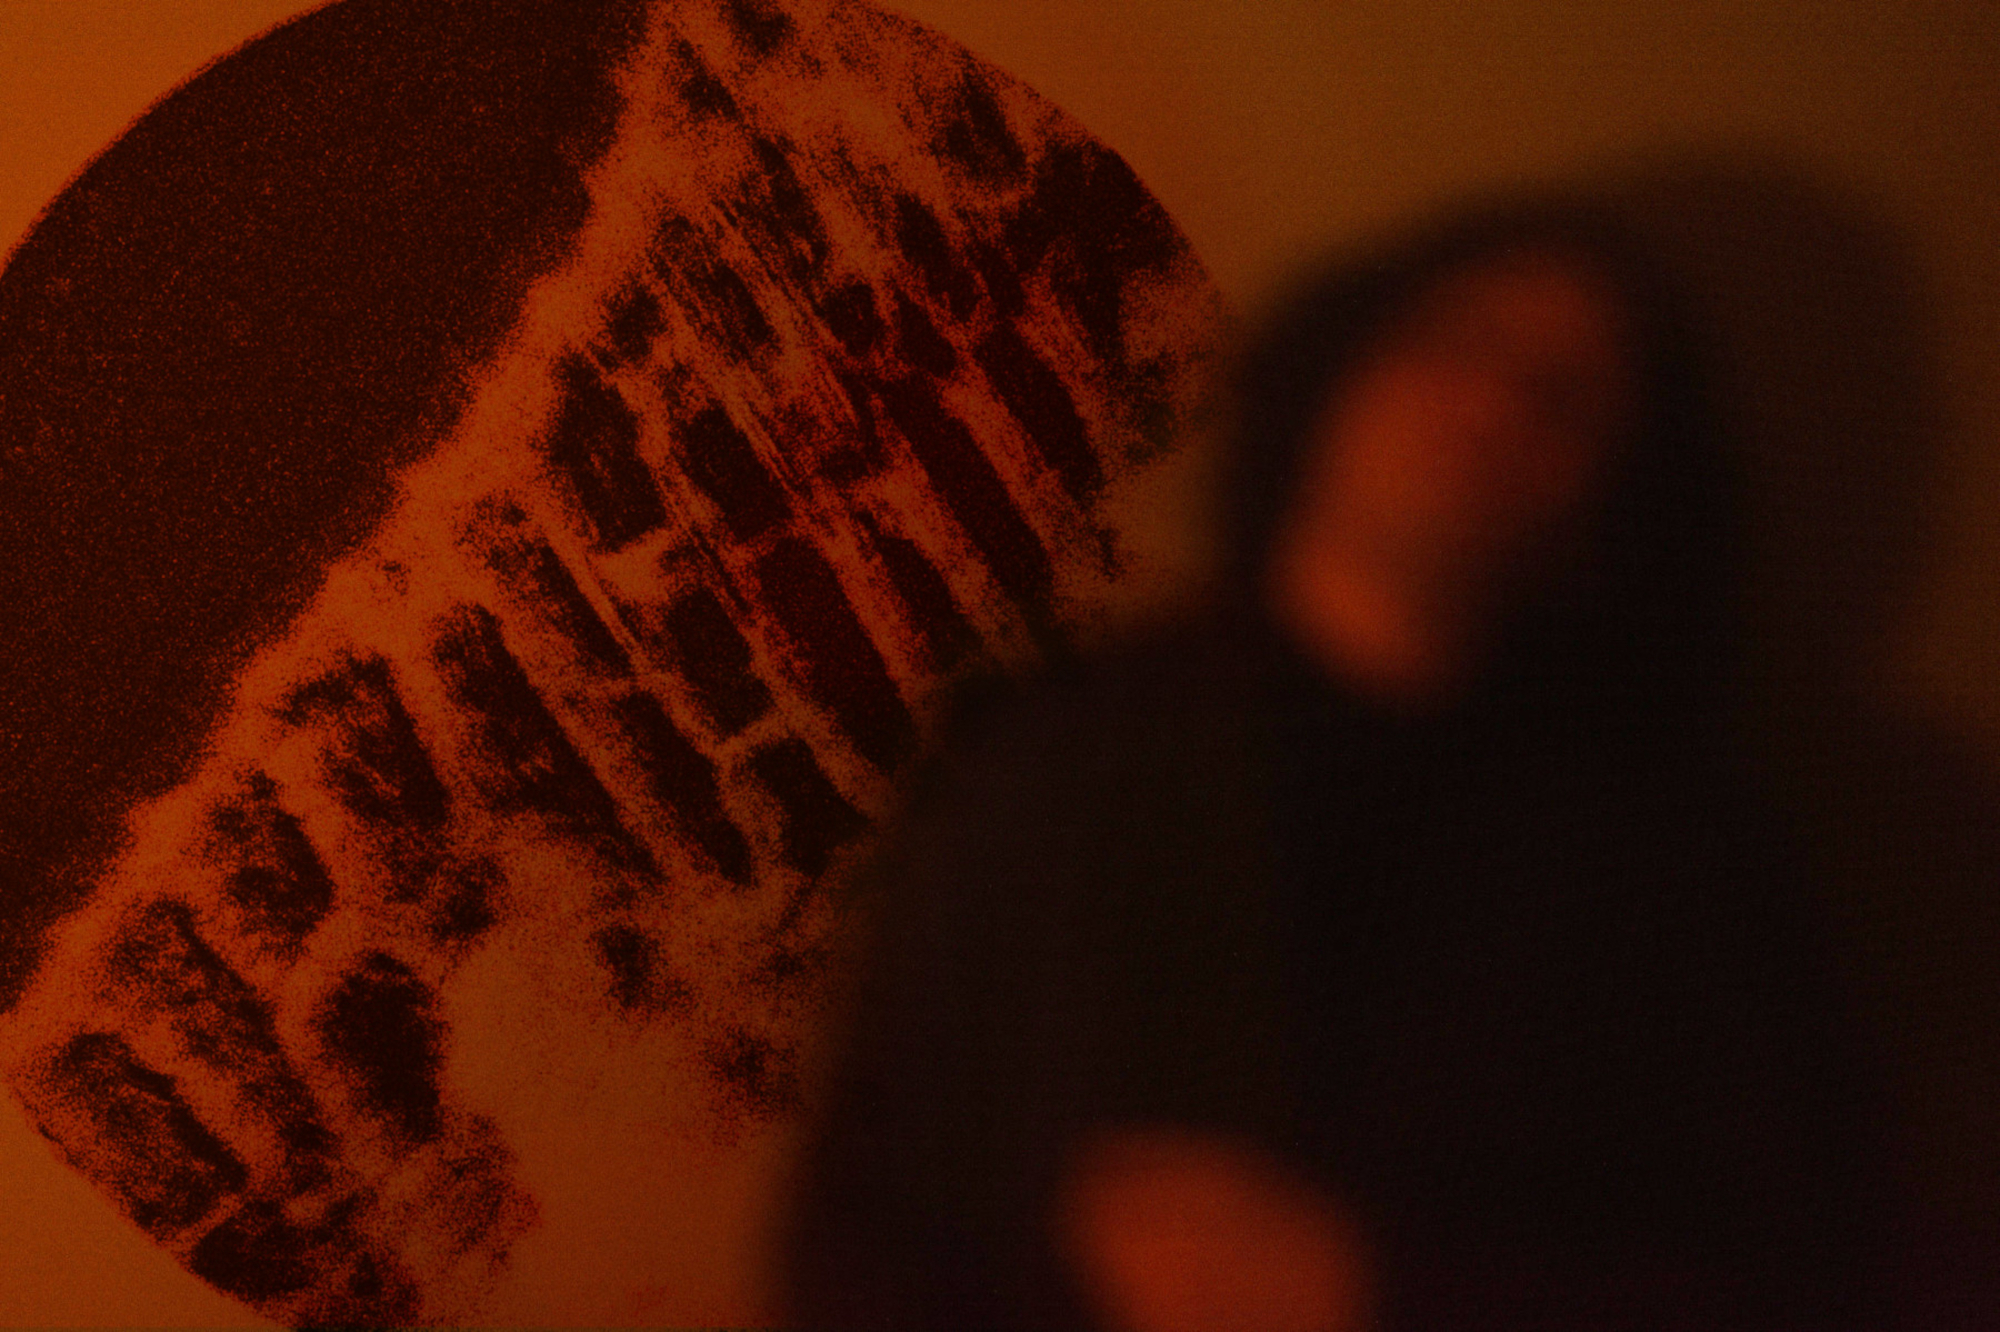
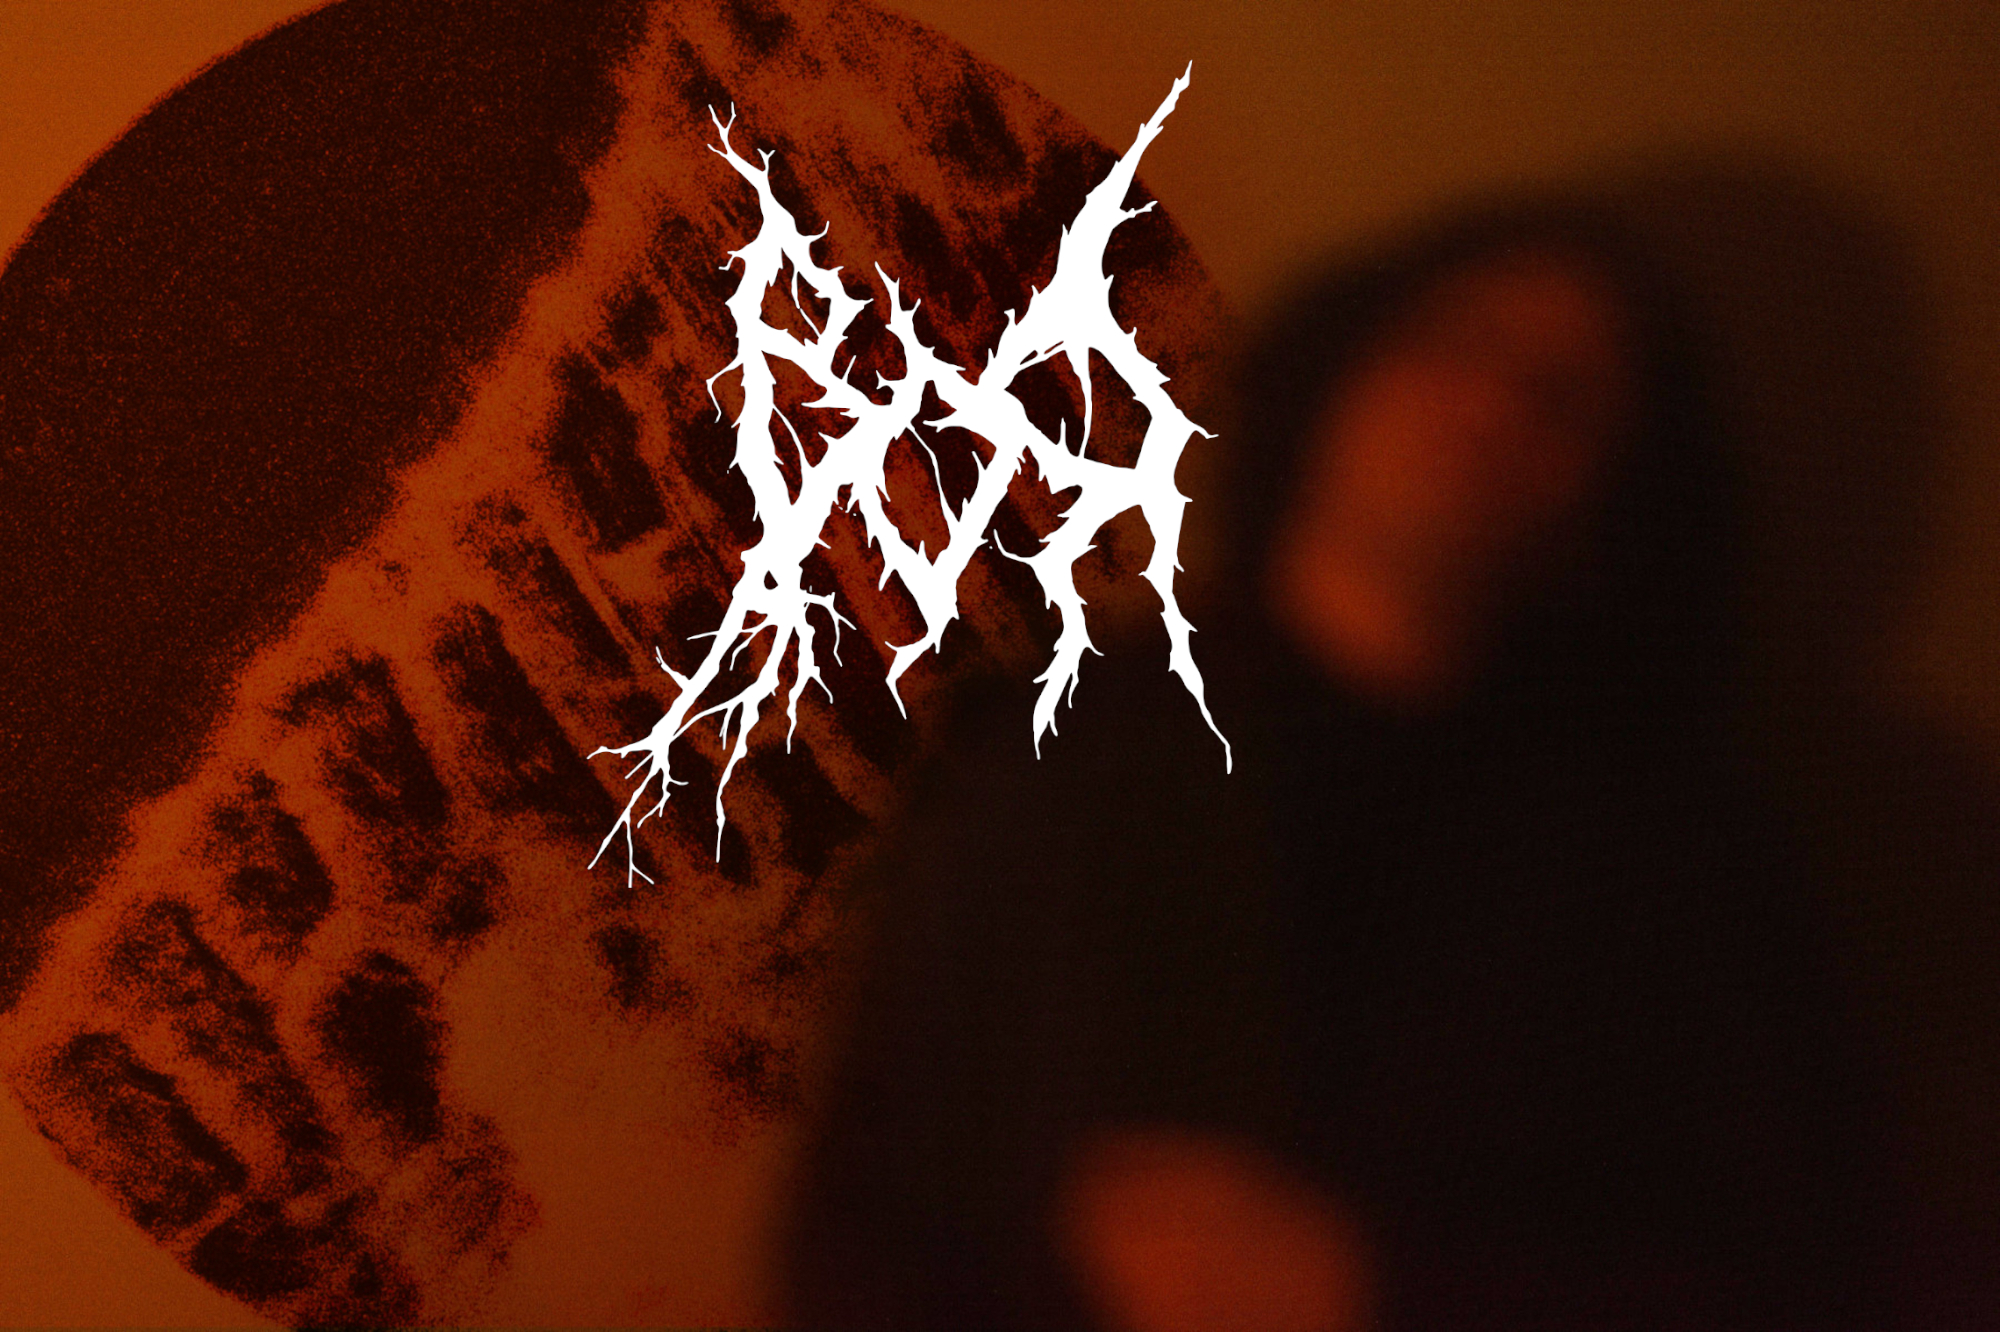
bor

Changed region(s): [[0.31, 0.0616, 0.62, 0.6156], [0.341, 0.0923, 0.372, 0.1231]]

diff --git a/_posts/2026-07-06-rio-tanques-004.md b/_posts/2026-07-06-rio-tanques-004.md
@@ -22,7 +22,7 @@ image: rio_tanques
 
 Su ubicación se adentra en el cafetal abandonado, por la cantidad de plantas y enredadedas es peligroso un encuentro con un animal venenoso (orugas, arañas, serpientes, hotmigas, etc.). Se enceuntra a unos metros del río que nace en los tanques de captación de agua potable de Cachí. Se debe avanzar con precaución, palpando la zona con una vara larga. No existe una seña identificable en el paisaje para una mejor referencia, aunado con el pequeño tamaño, hace tener que revisar cada fila de plantas de café.
 
-![mapa_tanque](darbor98.github.io/images/posts/r_o_de_los_tanques_rustic_20260709_085650.png)
+![mapa_tanque](darbor98.github.io/assets/images/posts/rio_tanques.png)
 
 <h3>Condiciones Ambientales</h3>
 